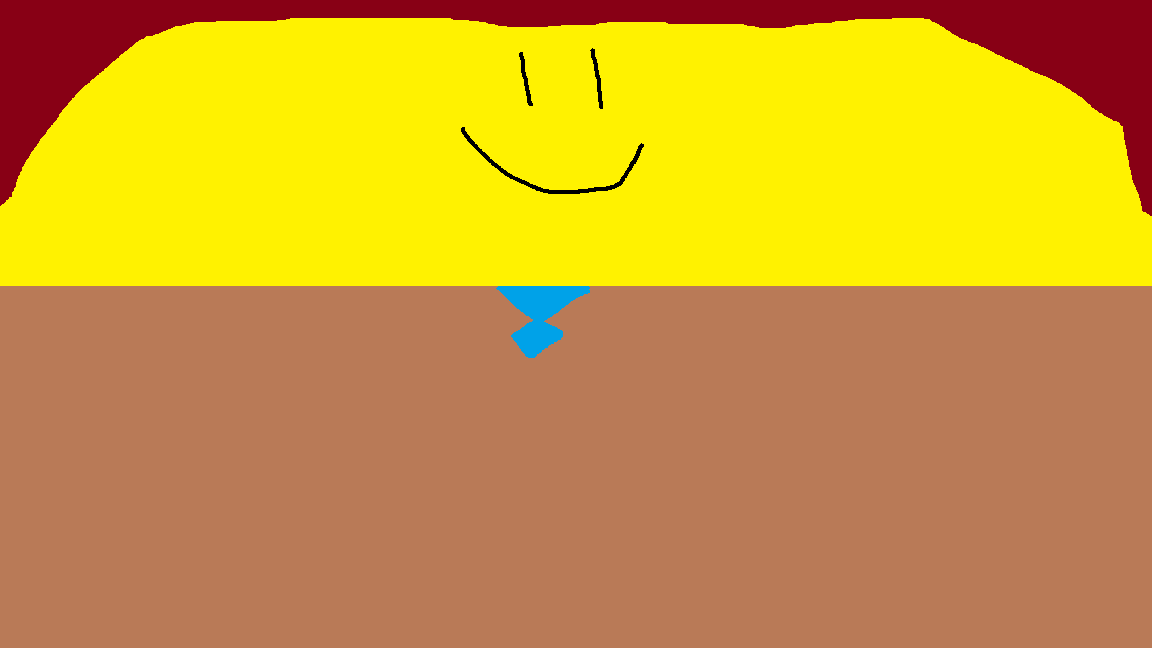
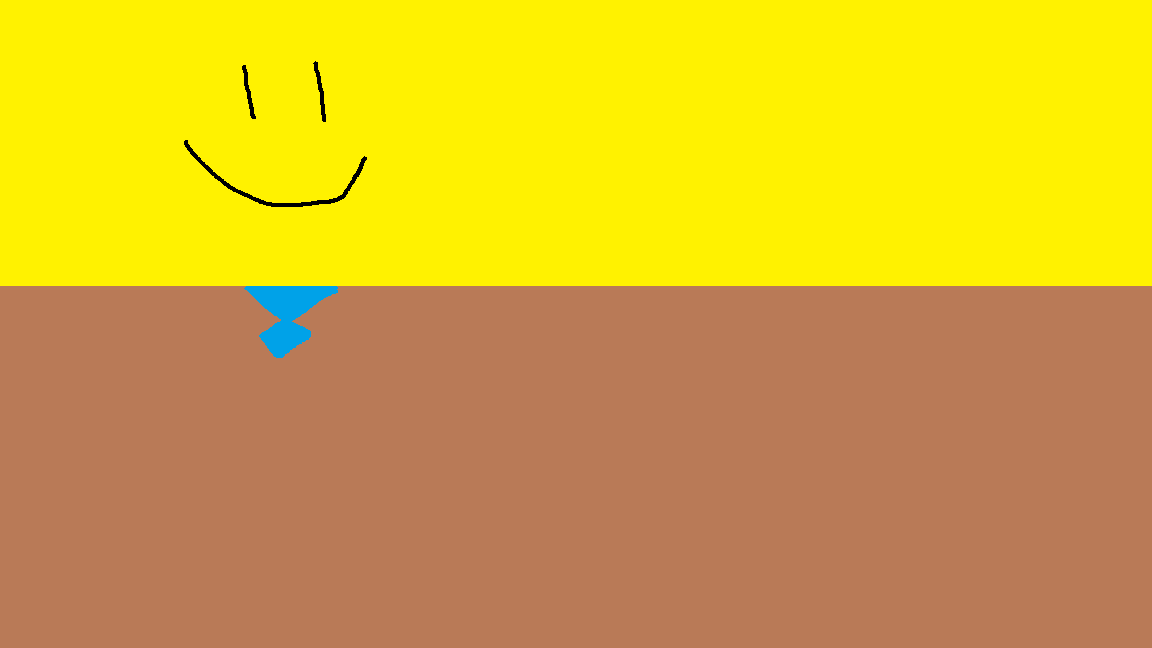
Code Changes 6.1

diff --git a/Assets/Scripts/GameManager.cs b/Assets/Scripts/GameManager.cs
@@ -6,7 +6,7 @@ public class GameManager : MonoBehaviour
     public static int AiSpeed = 2;
     public static float timeLength = 2f;
     public static bool move = true;
-    public static Vector3 target1 = new Vector3(10, 0, 6);
-    public static Vector3 target2 = new Vector3(2, 0, 2);
-    public static Vector3 target3 = new Vector3(5, 0, -3);
+    public static Vector3 target1 = new Vector3(10, 0.5f, 6);
+    public static Vector3 target2 = new Vector3(2, 0.5f, 2);
+    public static Vector3 target3 = new Vector3(5, 0.5f, -3);
 }
